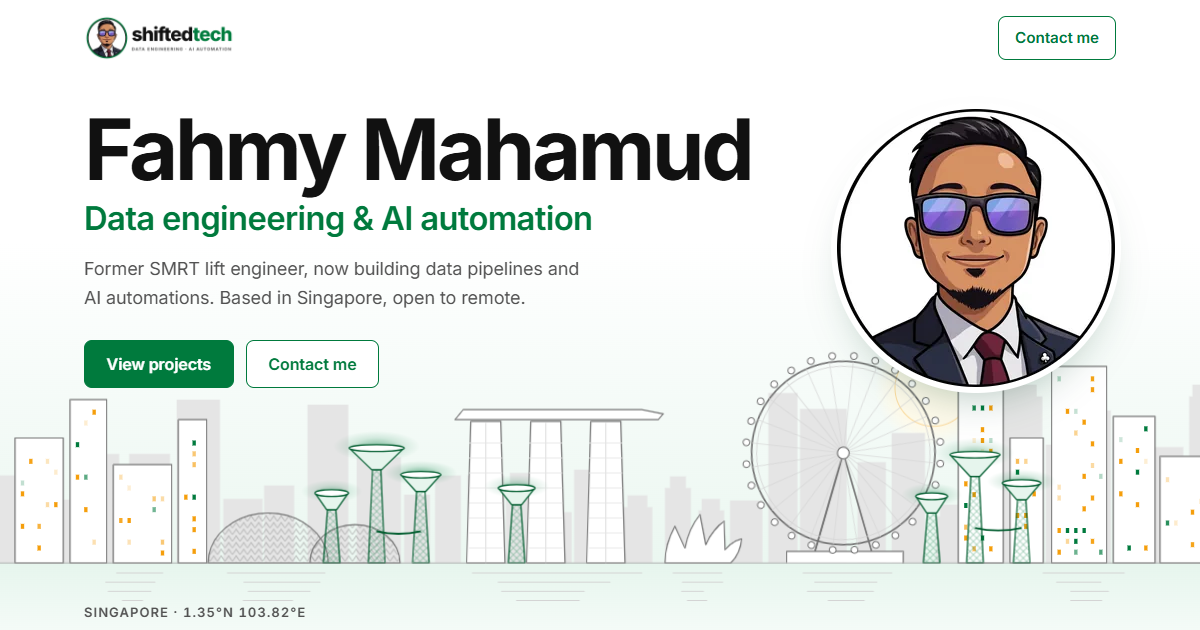
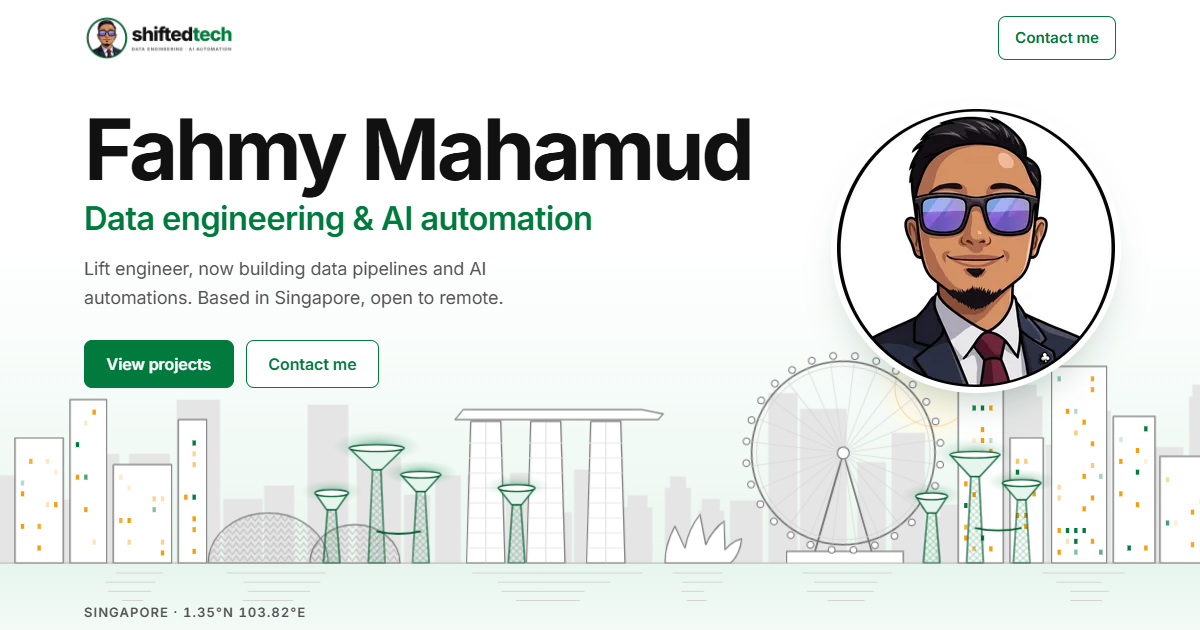
Hero subline: 'Lift engineer'; experience: 9+ years

Changed region(s): [[0.0617, 0.3921, 0.4933, 0.4825]]

diff --git a/site/index.html b/site/index.html
@@ -4,14 +4,14 @@
 <meta charset="utf-8">
 <meta name="viewport" content="width=device-width, initial-scale=1, viewport-fit=cover">
 <title>Fahmy Mahamud — Data engineering & AI automation</title>
-<meta name="description" content="Fahmy Mahamud: former SMRT lift engineer, now building data pipelines and AI automations. Python, SQL, Microsoft Fabric, Azure, Google Cloud, Snowflake. Singapore, open to remote.">
+<meta name="description" content="Fahmy Mahamud: lift engineer, now building data pipelines and AI automations. Python, SQL, Microsoft Fabric, Azure, Google Cloud, Snowflake. Singapore, open to remote.">
 <meta name="author" content="Fahmy Mahamud">
 <meta name="theme-color" content="#FFFFFF">
 <link rel="canonical" href="https://fahmymahamud.vercel.app/">
 <meta property="og:type" content="website">
 <meta property="og:site_name" content="shiftedtech">
 <meta property="og:title" content="Fahmy Mahamud — Data engineering & AI automation">
-<meta property="og:description" content="Former SMRT lift engineer, now building data pipelines and AI automations. Based in Singapore, open to remote.">
+<meta property="og:description" content="Lift engineer, now building data pipelines and AI automations. Based in Singapore, open to remote.">
 <meta property="og:image" content="https://fahmymahamud.vercel.app/assets/og-image.png">
 <meta property="og:image:width" content="1200">
 <meta property="og:image:height" content="630">
@@ -78,7 +78,7 @@
       <div class="lobby__copy">
         <h1 id="hero-title" class="lobby__name">Fahmy Mahamud</h1>
         <p class="lobby__headline">Data engineering &amp; AI automation</p>
-        <p class="lobby__sub">Former SMRT lift engineer, now building data pipelines and AI automations. Based in Singapore, open to remote.</p>
+        <p class="lobby__sub">Lift engineer, now building data pipelines and AI automations. Based in Singapore, open to remote.</p>
         <div class="lobby__ctas">
           <a class="btn btn--primary" href="#projects">View projects</a>
           <a class="btn btn--ghost" href="#contact">Contact me</a>
@@ -206,7 +206,7 @@
         </dl>
       </div>
       <div class="prose" data-sc-in data-sc-stagger="70">
-        <p class="lede">I spent <span class="num" data-sc-count="0 12">12</span>+ years in engineering operations and facilities.</p>
+        <p class="lede">I spent <span class="num" data-sc-count="0 9">9</span>+ years in engineering operations and facilities.</p>
         <p>At SMRT I kept lifts and escalators running for Singapore's rail network. I was promoted to Assistant Engineer II, and I stepped up as team lead on short notice to clear a backlog of undone documentation by priority.</p>
         <p>That's where I saw how much more I could do with data and AI.</p>
         <p>So I retrained through Generation Singapore's Junior Data Engineer programme, with Microsoft and Temasek Polytechnic. Now I build data pipelines and AI automations that save small businesses hours of manual work.</p>

diff --git a/design/builds/fahmy-portfolio/BRIEF.md b/design/builds/fahmy-portfolio/BRIEF.md
@@ -53,7 +53,7 @@ G  Curiosity    a light Singapore morning skyline that leans as your pointer mov
 2  Competence   skills set as a clean spec sheet, grouped, nothing decorative
 3  Anticipation→Delight   the floor indicator reaches 3, the doors hold shut, then part under your hand
 4  Trust        certifications, compact, provider by provider (administrative, compressed)
-5  Grounding    the timeline: real employers, real dates, 12+ years
+5  Grounding    the timeline: real employers, real dates, 9+ years
 6  Resolve      the lift arrives: green ground, one line, email and GitHub, the indicator settles on 6
 ```
 Adjacent acts carry different feelings.
@@ -69,7 +69,7 @@ The first ~15% of the projects pin holds the doors shut on purpose (anticipation
 | Beat | Device | Why |
 |---|---|---|
 | G Lobby | bespoke pointer + scroll parallax (SVG planes) | depth from differential motion; the world leans |
-| 1 Story | flow + in, count (12+, 60+) | prose with real figures |
+| 1 Story | flow + in, count (9+, 60+) | prose with real figures |
 | 2 Skills | flow + reveal (chapter wipe) | a change of floor is a change of state |
 | 3 Projects | pin + `--sc-p` doors (signature) | the peak; held breath then release |
 | 4 Certifications | flow + in (short stagger) | compress the administrative part |

diff --git a/content.md b/content.md
@@ -10,14 +10,14 @@ in `brand_assets/` are left off the site (see DECISIONS.md).
 - Heading: **Fahmy Mahamud**
 - Avatar: `brand_assets/avatar.png`
 - Headline: Data engineering & AI automation
-- Subline: Former SMRT lift engineer, now building data pipelines and AI automations. Based in Singapore, open to remote.
+- Subline: Lift engineer, now building data pipelines and AI automations. Based in Singapore, open to remote.
 - Buttons: **View projects** (→ #projects) · **Contact me** (→ #contact)
 - Skyline label: Singapore · 1.35°N 103.82°E
 
 ## 1. My story
 Heading: From lifts to data.
 
-I spent 12+ years in engineering operations and facilities. At SMRT I kept lifts and escalators running for
+I spent 9+ years in engineering operations and facilities. At SMRT I kept lifts and escalators running for
 Singapore's rail network, was promoted to Assistant Engineer II, and stepped up as team lead on short notice
 to clear a backlog of undone documentation by priority. That is where I saw how much more I could do with data
 and AI. So I retrained through Generation Singapore's Junior Data Engineer programme (with Microsoft and

diff --git a/brand_assets/resume-portfolio.md b/brand_assets/resume-portfolio.md
@@ -11,7 +11,7 @@ Fahmy Mahamud (Mohammad Fahmy Bin Mahamud) · Singapore Citizen · English (flue
 Data engineering & AI automation
 
 ## Summary
-12+ years in engineering operations and facilities, now building data pipelines and AI automations.
+9+ years in engineering operations and facilities, now building data pipelines and AI automations.
 I kept lifts and escalators running for Singapore's rail network at SMRT, was promoted to Assistant Engineer II,
 and moved into data engineering through Generation Singapore's Junior Data Engineer programme
 (with Microsoft and Temasek Polytechnic). I work with Python, SQL, ETL/ELT pipelines, Microsoft Fabric,

diff --git a/DECISIONS.md b/DECISIONS.md
@@ -33,7 +33,7 @@ Built 28 Sep 2026 with Claude Code, following `CLAUDE.md` and `PROMPT.md`.
 - The Story chapter adds a small "Then / Now" pair built from resume wording (lifts, escalators, travellators → pipelines,
   dashboards, automations).
 - "Open source · runs every day" on MyJobSearchBot comes from the resume ("open-source daily job-alert automation").
-- Only real numbers are animated: 12+ years, 60+ escalator units.
+- Only real numbers are animated: 9+ years, 60+ escalator units.
 
 ## Design
 - **Grammar:** chaptered editorial. Each section is a "floor" with its own light ground (white, off-white, light grey,
